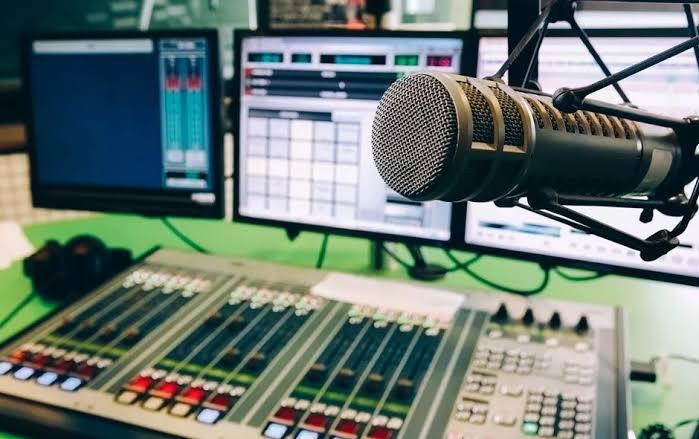
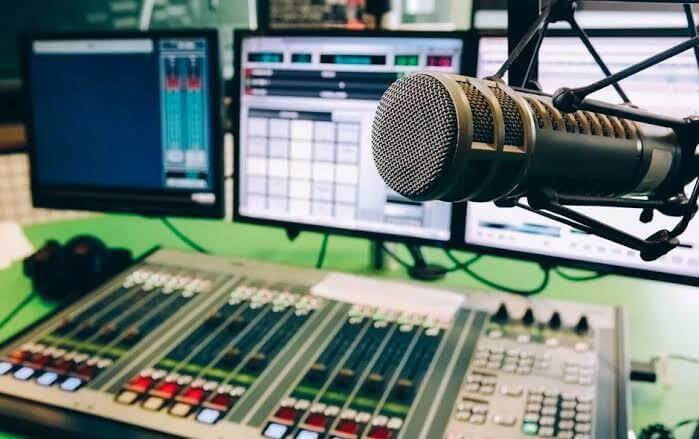
minified all images

diff --git a/index.html b/index.html
@@ -169,6 +169,32 @@
                                 aria-labelledby="headingFive">
                                 <div class="row">
                                     <div class="col-lg-6 col-md-6 col-sm-12">
+                                        <div id="carouselExampleFade" class="carousel slide carousel-fade" data-ride="carousel">
+                                            <div class="carousel-inner">
+                                                <div class="carousel-item active">
+                                                    <img class="d-block w-100" src="assets/img/coverage/ec1.jpeg" alt="First slide">
+                                                </div>
+                                                <div class="carousel-item">
+                                                    <img class="d-block w-100" src="assets/img/coverage/ec2.jpeg" alt="Second slide">
+                                                </div>
+                                                <div class="carousel-item">
+                                                    <img class="d-block w-100" src="assets/img/coverage/ec3.jpeg" alt="Third slide">
+                                                </div>
+                                                <div class="carousel-item">
+                                                    <img class="d-block w-100" src="assets/img/coverage/ec4.jpeg" alt="Fourth slide">
+                                                </div>
+                                            </div>
+                                            <a class="carousel-control-prev" href="#carouselExampleFade" role="button" data-slide="prev">
+                                                <span class="carousel-control-prev-icon" aria-hidden="true"></span>
+                                                <span class="sr-only">Previous</span>
+                                            </a>
+                                            <a class="carousel-control-next" href="#carouselExampleFade" role="button" data-slide="next">
+                                                <span class="carousel-control-next-icon" aria-hidden="true"></span>
+                                                <span class="sr-only">Next</span>
+                                            </a>
+                                        </div>
+                                    </div>
+                                    <div class="col-lg-6 col-md-6 col-sm-12">
                                         <div class="panel-body">
                                             <p>
                                                 Missing an important moment is not in our vocabulary. 
